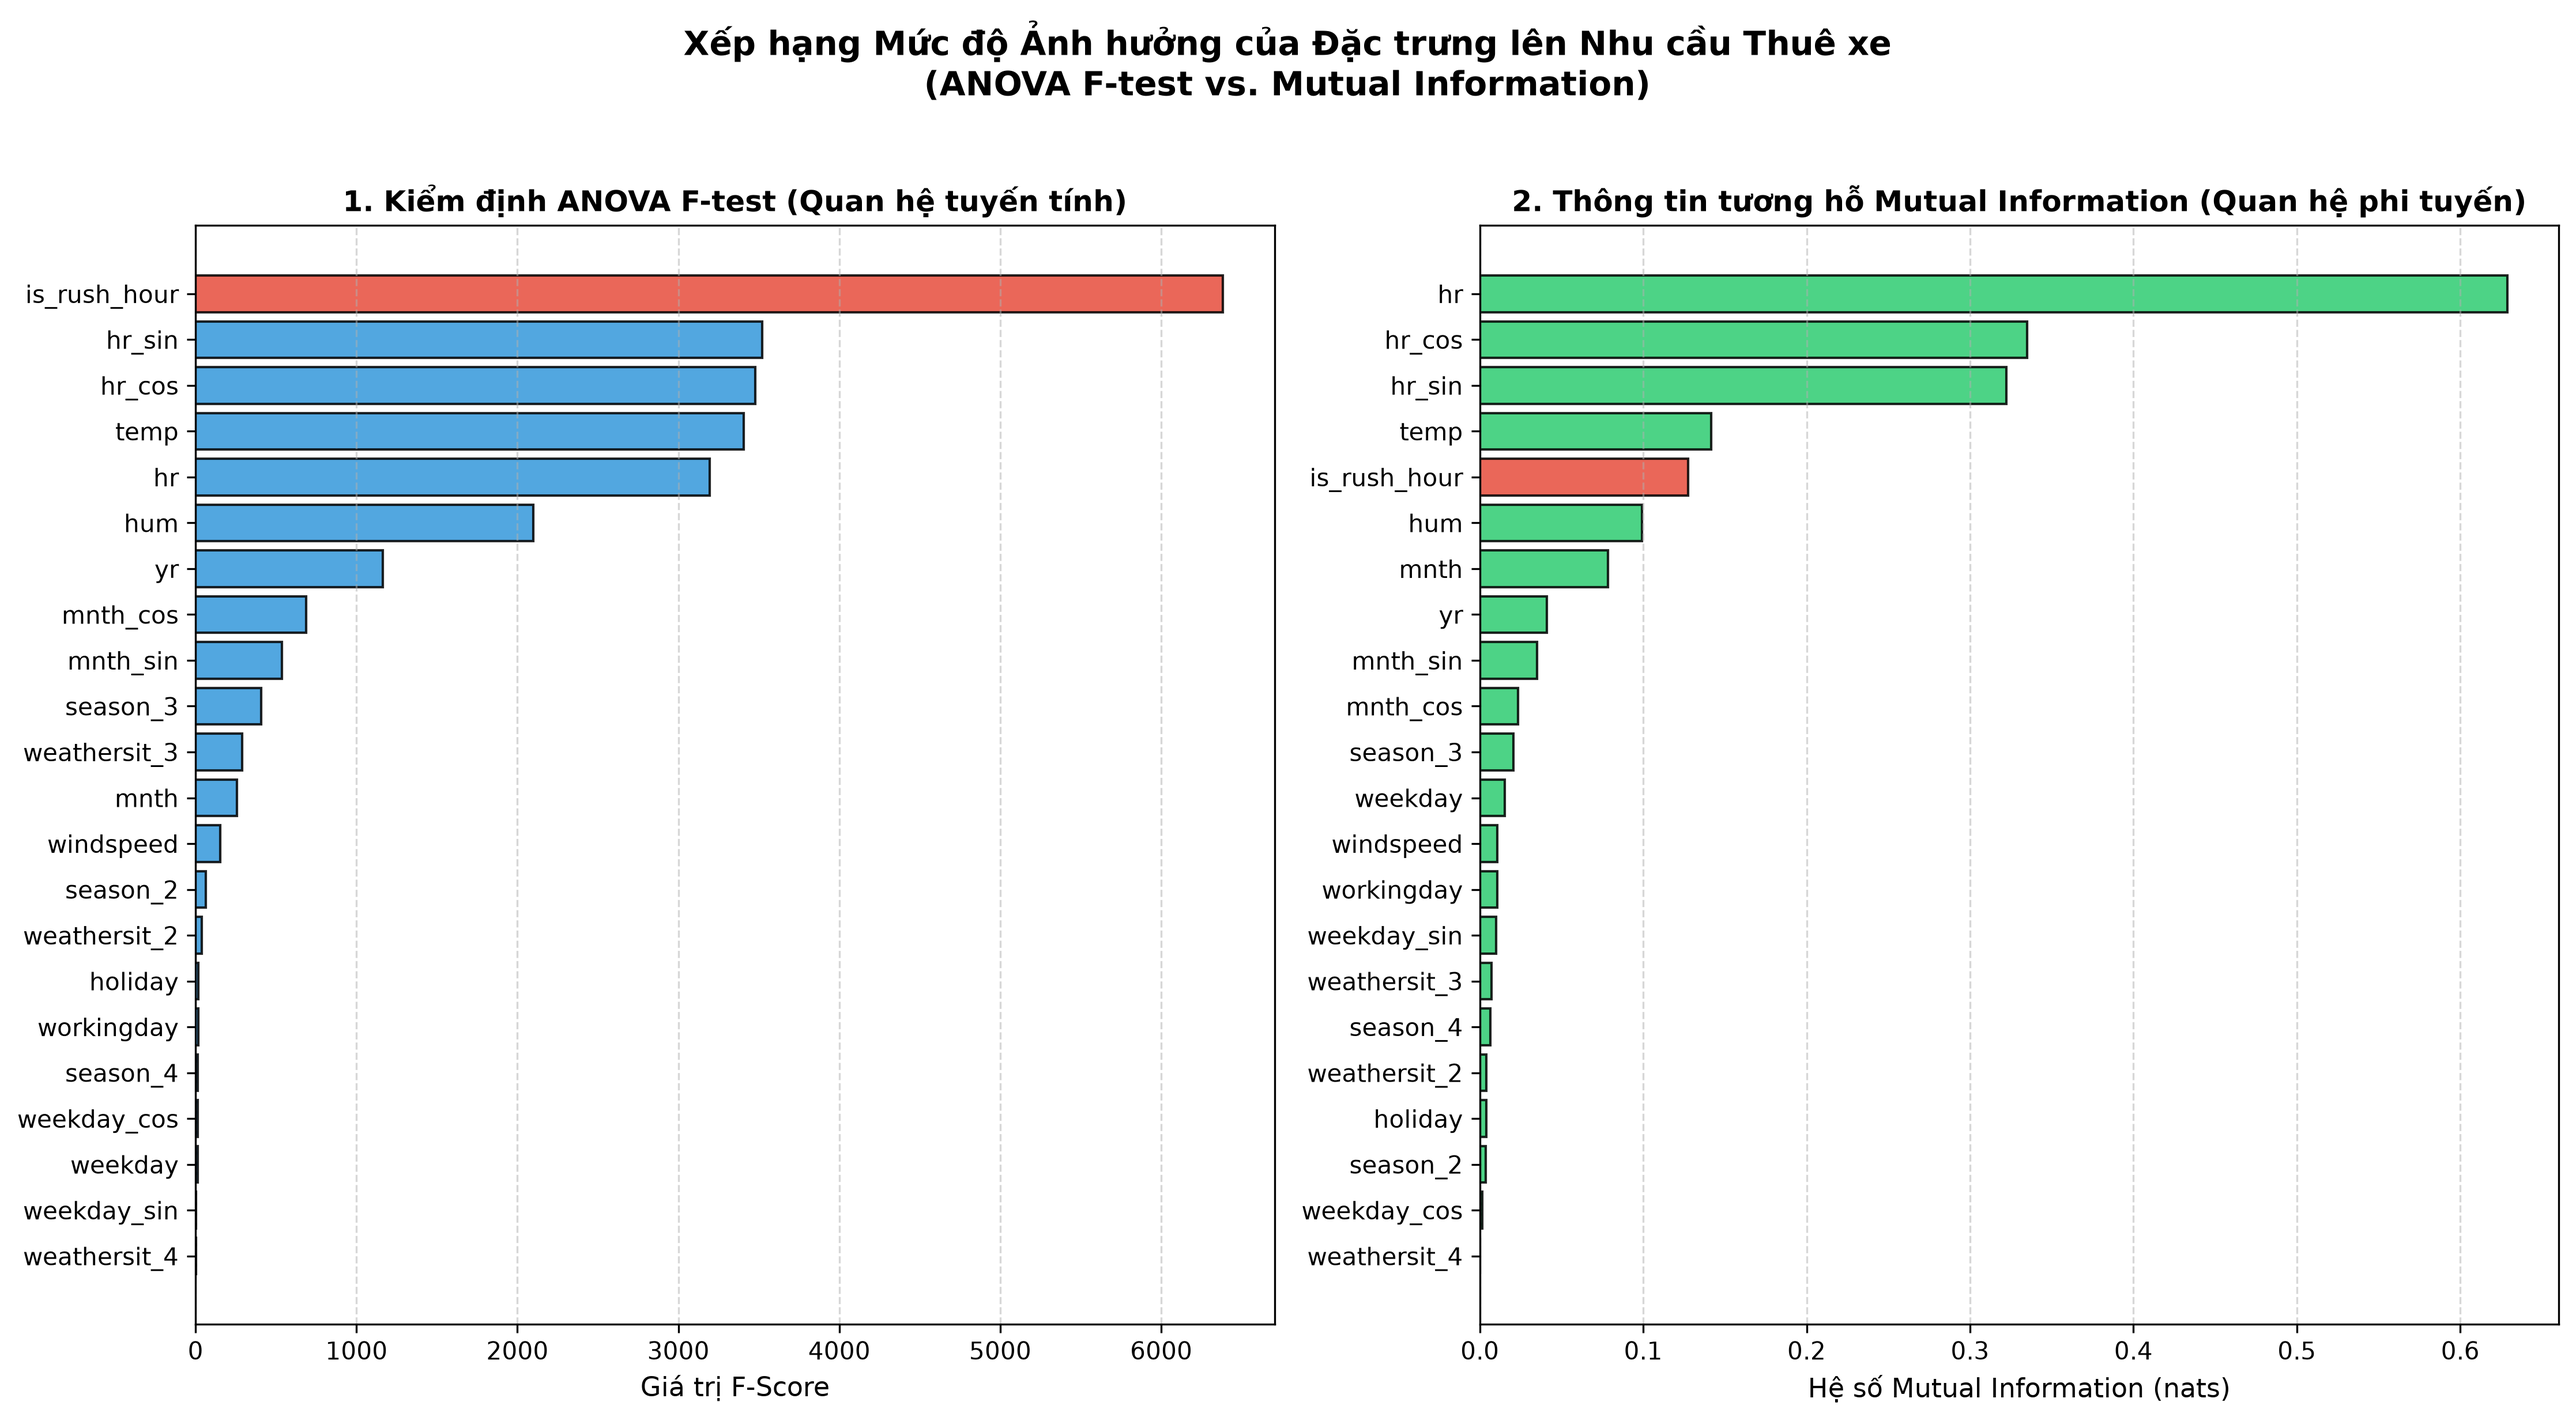
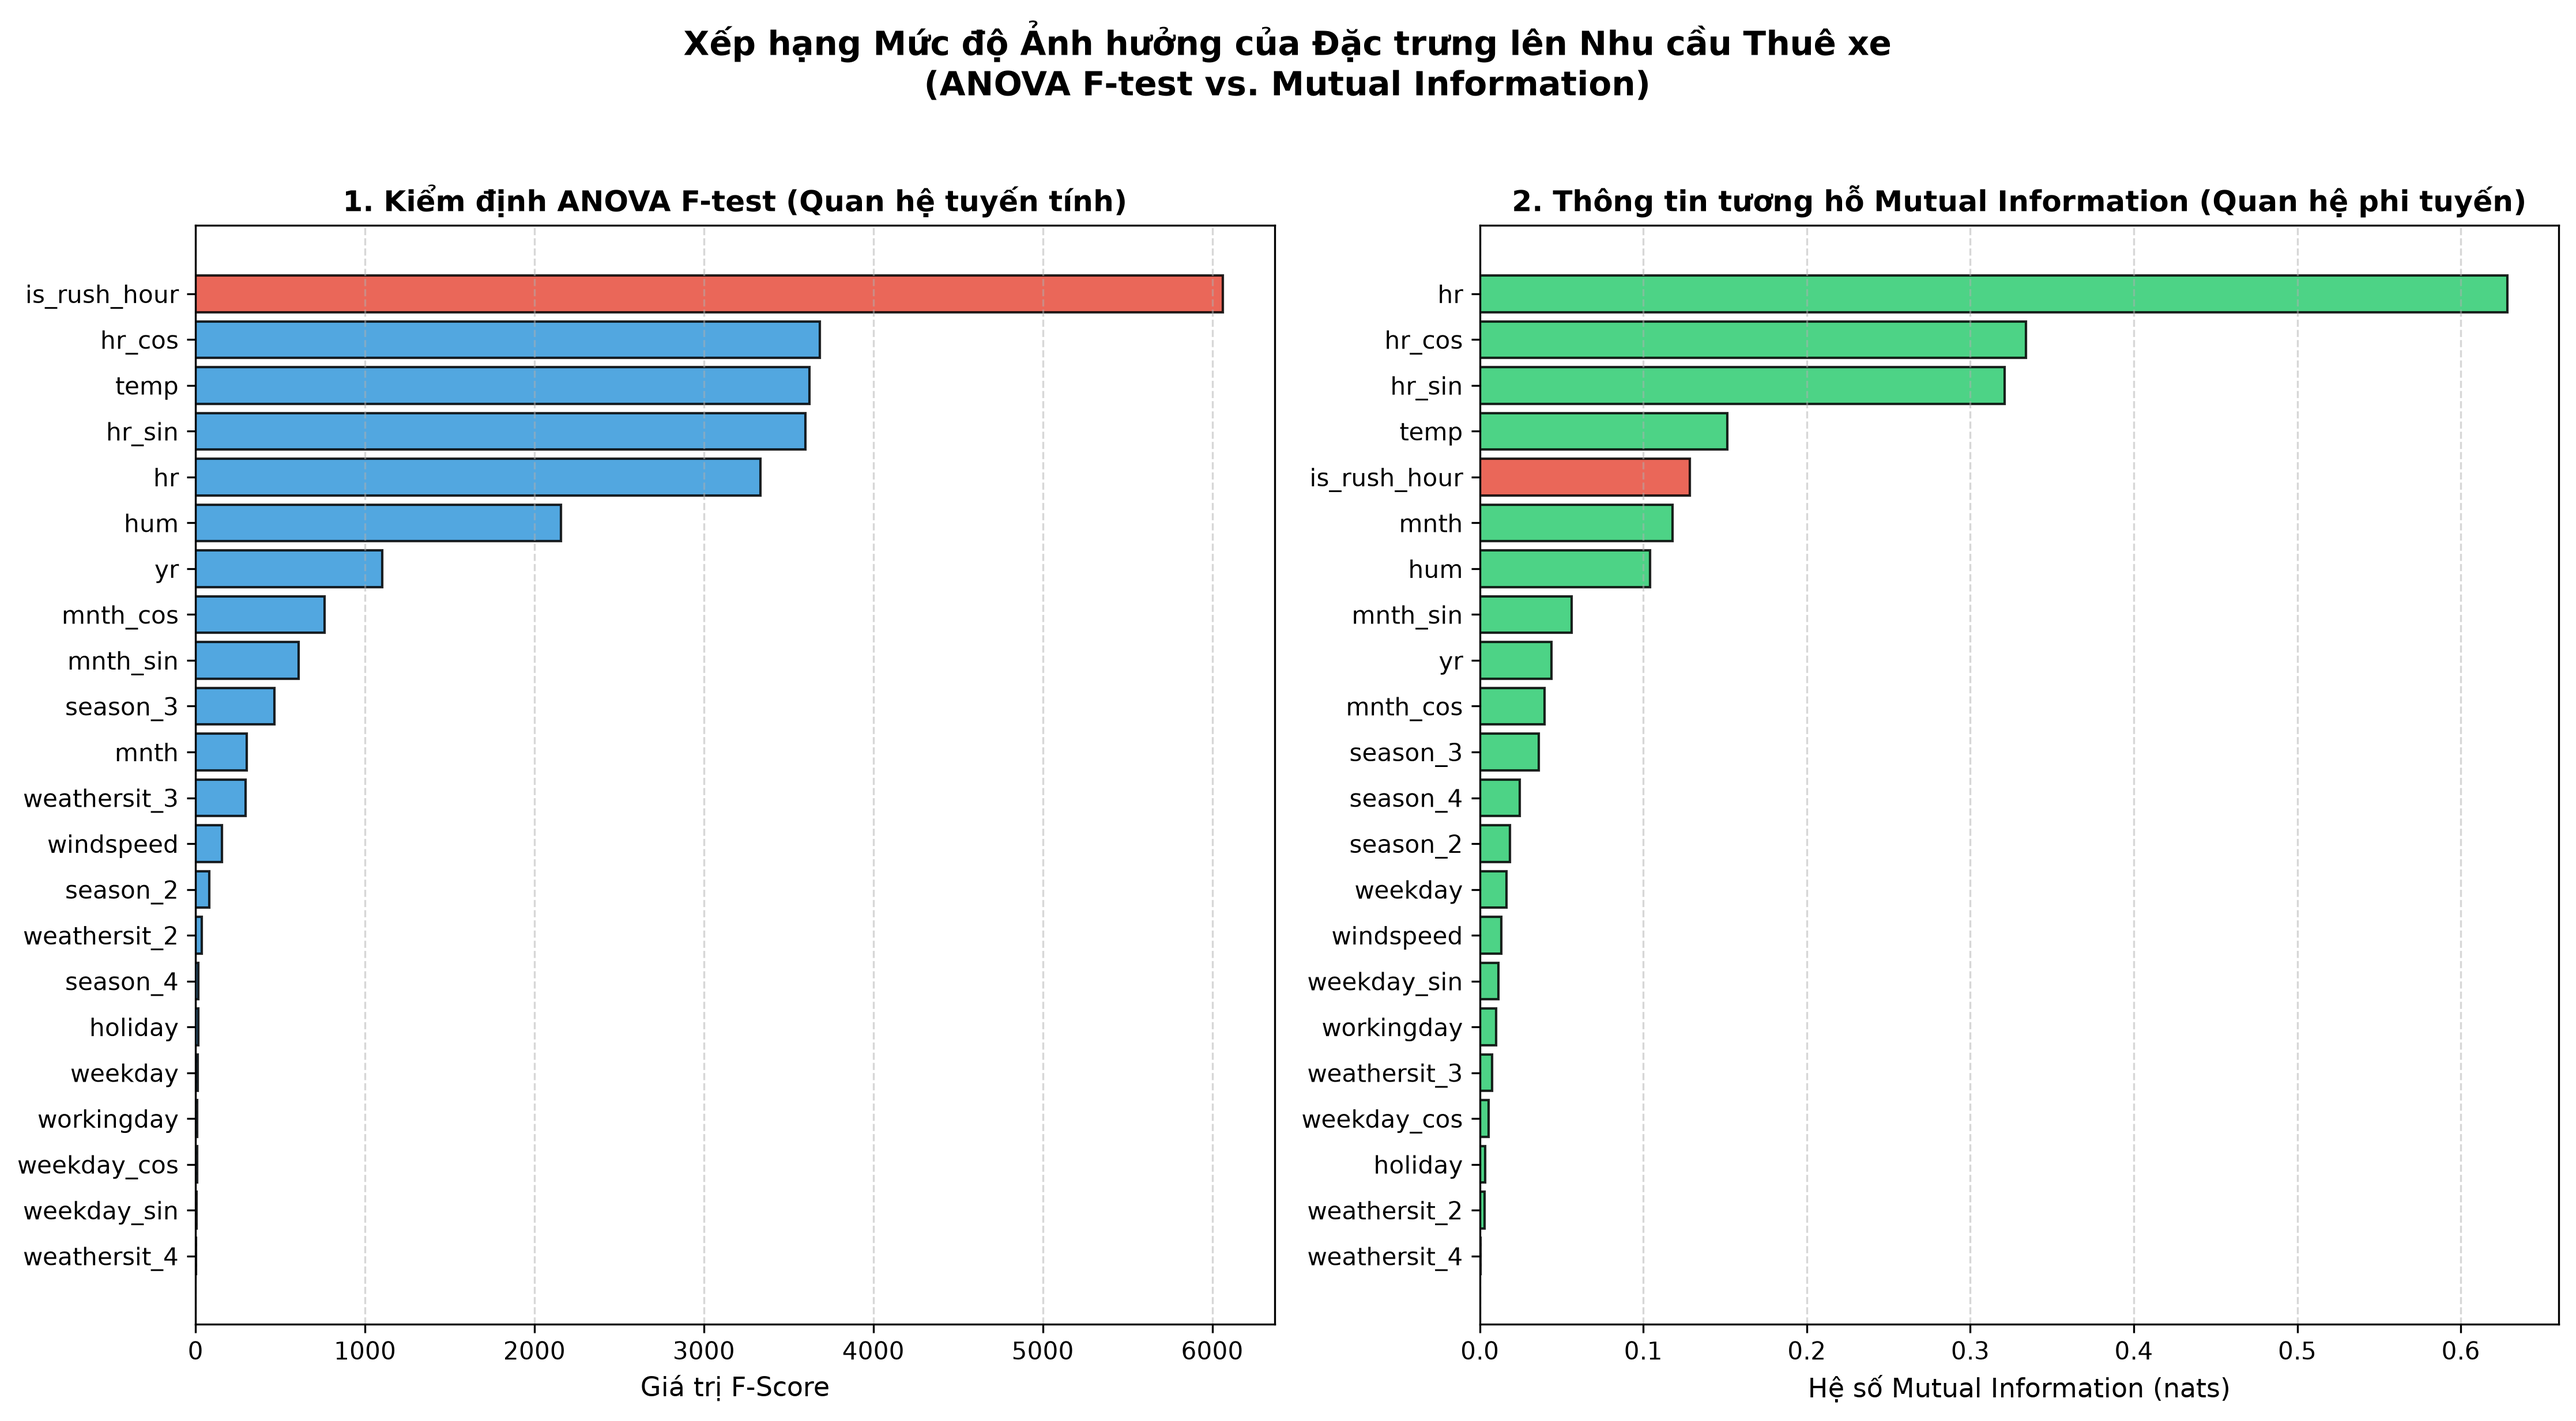
docs: cap nhat luan chung chi tiet xu ly ngoai lai trong bao cao va notebook

diff --git a/report/bao_cao_do_an_hoc_may.md b/report/bao_cao_do_an_hoc_may.md
@@ -340,13 +340,26 @@ $$y > Q_3 + 1.5 \times IQR \quad (\text{với } IQR = Q_3 - Q_1)$$
 | **Mùa đông** | 4,232 | 46.0 | 155.5 | 295.0 | **668.5** xe | **112** | 2.65% |
 | **Toàn bộ dữ liệu**| **17,379** | — | — | — | — | **478** | **2.75%** |
 
-#### Phân tích chuyên sâu về các điểm ngoại lai
+#### Phân tích chuyên sâu về các điểm ngoại lai và Luận giải kỹ thuật
+
 Từ Hình 4.2 và Bảng 4.2, nhóm em rút ra ba phát hiện quan trọng:
 1. **Mặt bằng nhu cầu:** Nhu cầu thuê xe đạt đỉnh vào Mùa thu (Trung vị 199 xe) và Mùa hè (165 xe) nhờ nhiệt độ ấm áp thuận lợi, trong khi Mùa xuân có mức sử dụng thấp nhất (Trung vị chỉ 76 xe) do thời tiết đầu năm còn rét buốt.
 2. **Số lượng điểm ngoại lai:** Mùa xuân (195 điểm) và Mùa đông (112 điểm) là hai mùa chiếm số lượng ngoại lai áp đảo. Nguyên nhân là do mặt bằng tiêu dùng chung của mùa xuân và mùa đông thấp khiến ngưỡng trần an toàn bị hạ xuống mức $360.5$ xe và $668.5$ xe. Do đó, bất kỳ ngày đẹp trời nào có nhu cầu tăng cao đột xuất đều bị công thức toán học đẩy thành điểm ngoại lai.
-3. **Mức độ cực đoan:** Cả 4 mùa đều ghi nhận các điểm ngoại lai vọt lên ngưỡng kỷ lục (Mùa đông lên đến 967 xe, ngang ngửa Mùa hè 968 xe và Mùa thu 977 xe). 
+3. **Mức độ cực đoan:** Cả 4 mùa đều ghi nhận các điểm ngoại lai vọt lên ngưỡng kỷ lục (Mùa đông lên đến 967 xe, ngang ngửa Mùa hè 968 xe và Mùa thu 977 xe).
 
-**Tác động đến mô hình học máy:** Các điểm ngoại lai này tạo ra mức sai số $(y - \hat{y})^2$ khổng lồ làm méo mó các đường hồi quy tuyến tính. Đặc biệt đối với thuật toán **AdaBoost**, cơ chế tự động tăng mạnh trọng số mẫu cho các quan sát có sai số dự đoán lớn sẽ khiến AdaBoost bị "dắt mũi", dồn toàn bộ năng lực học vào các điểm ngoại lai cực đoan này, dẫn tới hiện tượng **Học vẹt (Overfitting)** nghiêm trọng. Do đó, việc áp dụng bộ lọc IQR để cắt bỏ hoặc làm mịn ngoại lai ở giai đoạn tiền xử lý dữ liệu là vô cùng cần thiết.
+#### Luận chứng: Tại sao chỉ tập trung xử lý ngoại lai cho biến `cnt` theo mùa mà không chạy IQR cho toàn bộ các biến?
+Xét về bản chất dữ liệu, sau khi loại bỏ các thuộc tính định danh và rò rỉ dữ liệu, tập dữ liệu được phân chia thành 3 nhóm đặc trưng rõ rệt:
+- **Nhóm biến thời gian & phân loại rời rạc (`hr`, `mnth`, `weekday`, `weathersit`, `workingday`, `holiday`, `yr`):** Đây là các thuộc tính định danh hoặc thứ bậc có miền giá trị cố định hữu hạn (ví dụ giờ chỉ chạy từ 0 đến 23, thời tiết từ 1 đến 4). Do đó, hoàn toàn không tồn tại khái niệm ngoại lai thống kê để tính IQR trên nhóm này.
+- **Nhóm biến thời tiết liên tục (`temp`, `hum`, `windspeed`):**
+  - Nhiệt độ (`temp`): Phân bố đều trong khoảng $[0.02, 1.00]$ ($-7^\circ\text{C} \to 39^\circ\text{C}$), không ghi nhận điểm bất thường phi lý.
+  - Độ ẩm (`hum`): Đã phát hiện và cô lập duy nhất **22 dòng lỗi cảm biến $hum = 0$** (được xử lý ở Mục 4.1). Các giá trị cao tiệm cận 1.0 là hiện tượng sương mù/mưa ẩm hoàn toàn tự nhiên và hợp lệ.
+  - Tốc độ gió (`windspeed`): Một số quan sát ghi nhận gió giật mạnh ($> 0.45$, tức $> 30\text{ km/h}$) vượt râu trên IQR, nhưng đây là biến thiên khí tượng thực tế khiến người dân ngại đạp xe chứ không phải lỗi đo đạc — việc giữ lại giúp mô hình học được quy luật phản ứng khi có gió lớn.
+- **Biến mục tiêu `cnt`:** Là biến có độ biến động mạnh nhất và bị lệch phải nặng nề. Do đó, tập trung rào chắn ngoại lai trên `cnt` theo 4 mùa là hoàn toàn khoa học và chính xác.
+
+#### Điểm mấu chốt về bản chất ngoại lai và Giải pháp Capping (Winsorization)
+- **Bản chất thực tế:** Các điểm vọt lên $800 - 977$ xe/giờ thực chất không phải lỗi cảm biến, mà chính là **giờ cao điểm tan tầm (8h sáng, 17h-18h chiều) vào những ngày thời tiết lý tưởng**. Nếu chia nhỏ theo từng khung giờ (`hr`) thì các quan sát này hoàn toàn bình thường, nhưng vì tính IQR gộp chung cả 24 giờ trong từng mùa nên chúng bị công thức toán học đẩy ra ngoài râu trên.
+- **Giải pháp xử lý an toàn:** Tổng số điểm vượt râu trên của `cnt` theo 4 mùa là **478 điểm (chiếm 2.75%)**, nằm sâu dưới ngưỡng an toàn 5%. Thay vì loại bỏ hoàn toàn (làm mất dữ liệu giờ cao điểm thực tế), nhóm em áp dụng kỹ thuật **Capping (Winsorization)**: giới hạn trần các điểm này về đúng ngưỡng râu trên của từng mùa.
+- **Tác động tích cực đến mô hình:** Mức cắt gọt nhẹ này vừa đủ để bảo vệ các thuật toán nhạy nhiễu như **Linear Regression** và **AdaBoost** (do cơ chế phạt bình phương sai số $(y - \hat{y})^2$ và tự động tăng trọng số mẫu lỗi) khỏi bị "học vẹt", vừa giữ lại trọn vẹn 17,379 giờ liên tục để các mô hình dựa trên cây (như Random Forest, XGBoost) học được đầy đủ quy luật giờ cao điểm.
 
 ---
 
